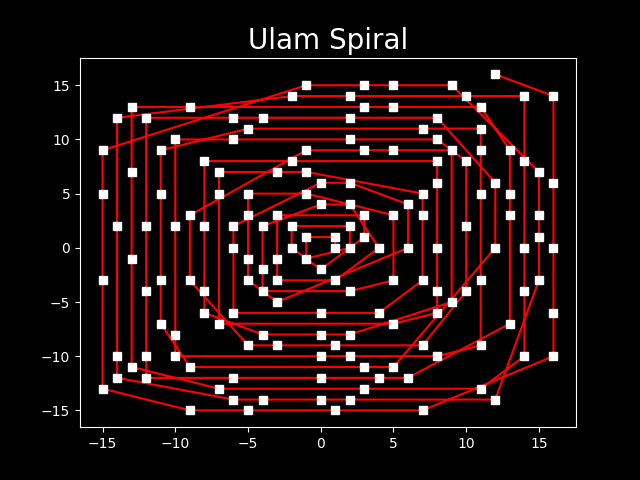
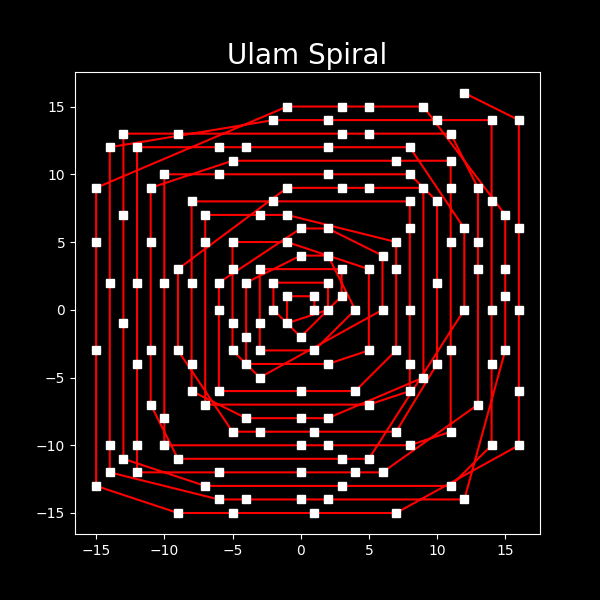
added collatz tree

diff --git a/Mandelbrot.py b/Mandelbrot.py
@@ -1,0 +1,47 @@
+# Mandelbrot set
+import matplotlib.pyplot as plt
+
+# make black background
+plt.style.use('dark_background')
+
+def mendelbrot(z, c):
+    """Return the value of the mendelbrot function."""
+    return z**2 + c
+
+def drawMendelbrotSet(xmin, xmax, ymin, ymax, iterations):
+    """Draw the mendelbrot set."""
+    # initialize the list of x and y coordinates
+    xpoints, ypoints = [], []
+    # iterate through the x coordinates
+    for x in range(xmin, xmax):
+        # iterate through the y coordinates
+        for y in range(ymin, ymax):
+            # initialize the complex number
+            z = complex(0, 0)
+            # initialize the complex number
+            c = complex(x / 100, y / 100)
+            # iterate through the number of iterations
+            for i in range(iterations):
+                # get the value of the mendelbrot function
+                z = mendelbrot(z, c)
+                # if the absolute value of the complex number is greater than 2
+                if abs(z) > 2:
+                    # append the x and y coordinates to the list
+                    xpoints.append(x)
+                    ypoints.append(y)
+                    break
+    # plot the points
+    plt.figure(figsize=(4, 4))
+    plt.title('Mandelbrot Set', size=20)
+    # make figure size a square
+    plt.plot(xpoints, ypoints, 'c.', markersize = 0.1)
+    # save the figure
+    # apply x and y limits
+    plt.xlim(xmin, xmax)
+    plt.ylim(ymin, ymax)
+    plt.savefig('mandelbrot_set.png', dpi=1000)
+    plt.close()
+
+# draw the mendelbrot set
+drawMendelbrotSet(-200, 100, -100, 100, 10000)
+

diff --git a/collatz.py b/collatz.py
@@ -1,0 +1,46 @@
+import networkx as nx
+import matplotlib.pyplot as plt
+import matplotlib.cm as cm
+
+# make it dark theme
+plt.style.use('dark_background')
+
+def collatz_sequence(n):
+    sequence = [n]
+    while n != 1:
+        if n % 2 == 0:
+            n = n // 2
+        else:
+            n = 3 * n + 1
+        sequence.append(n)
+    return sequence
+
+def create_collatz_tree(starting_numbers):
+    G = nx.Graph()
+    for start in starting_numbers:
+        sequence = collatz_sequence(start)
+        for i in range(len(sequence) - 1):
+            G.add_edge(sequence[i], sequence[i+1])
+    return G
+
+def visualize_collatz_tree(G: nx.Graph):
+    pos = nx.spring_layout(G)
+    # make figure size square
+    plt.figure(figsize=(6,6))
+    plt.title('Collatz tree', size=20)
+    nx.draw_networkx(G, 
+                     pos,
+                     with_labels=False,
+                     node_size=10,
+                     node_color='r',
+                     edge_color=range(2, G.number_of_edges() + 2),
+                     edge_cmap=cm.get_cmap('viridis')
+                     )
+    # save figure
+    plt.savefig('collatz.png', dpi=1000)
+    plt.show()
+
+# Example usage
+starting_numbers = [6, 9, 27, 10, 24, 3, 7, 15, 96, 9663]
+collatz_tree = create_collatz_tree(starting_numbers)
+visualize_collatz_tree(collatz_tree)

diff --git a/prime_spiral.py b/prime_spiral.py
@@ -60,6 +60,8 @@ while current <= N:
             else:
                 ygoal = y - ych
         
+# make plot size a square
+plt.figure(figsize=(6, 6))
 plt.title('Ulam Spiral', size=20)
 # plt.xlim(-min(xcoordinates), max(xcoordinates))
 # plt.ylim(-min(ycoordinates), max(ycoordinates))

diff --git a/SierpinskiTriangle.py b/SierpinskiTriangle.py
@@ -34,5 +34,5 @@ plt.title('Sierpinski Triangle', size=20)
 # make figure size a square
 plt.plot(xpoints, ypoints, 'c.', markersize = 0.1)
 # save the figure
-plt.savefig('sierpinski_triangle.png')
+plt.savefig('sierpinski_triangle.png', dpi=1000)
 plt.close()

diff --git a/fib_spiral.py b/fib_spiral.py
@@ -35,7 +35,7 @@ def drawQuarter(point, radius, starting_angle):
         angle_ += 1
     # return the list of points
     # print(xpoints, ypoints) 
-    plt.plot(xpoints, ypoints, 'w')
+    plt.plot(xpoints, ypoints, 'c')
     # plt.show()
 
 

diff --git a/three_N_plus_1.py b/three_N_plus_1.py
@@ -28,6 +28,6 @@ def three_n_plus_1(n):
 
 for i in numbers:
     plt.plot(three_n_plus_1(i), label="%d" % i)
-plt.title("3n+1")
+plt.title("3n+1", size=20)
 plt.legend()
 plt.savefig('3nplus1.png')

diff --git a/README.md b/README.md
@@ -4,11 +4,13 @@
 this is just a hobby thing. I'm trying to try all beautiful things in maths or any other domains which I can visualize using code.
 
 ## Why?
-aise hi sexy lag raha tha
+![aishe hi sexy lag raha tha](aisehi.jpeg)
+
+## Want to add something?
+you are free to make a pull request. I'll merge it if it's beautiful enough. I'll also add your name in the contributors list. Just make sure background is black (I'm racist sue me).
 
 <!-- insert image aisehi.jpeg-->
 
-![aishe hi sexy lag raha tha](aisehi.jpeg)
 
 ## Works
 
@@ -19,9 +21,11 @@ aise hi sexy lag raha tha
 ![ulam spiral](prime_spiral.png)
 
 ### 3n+1 problem
-![3n+1](3nplus1.png)
+![3n+1](3nplus1.png) ![collatz](collatz.png)
 
 ### mandelbrot set
+![mandelbrot set](mandelbrot_set.png)
 
 ### Sierepinski triangle
 ![sierpinski triangle](sierpinski_triangle.png)
+
